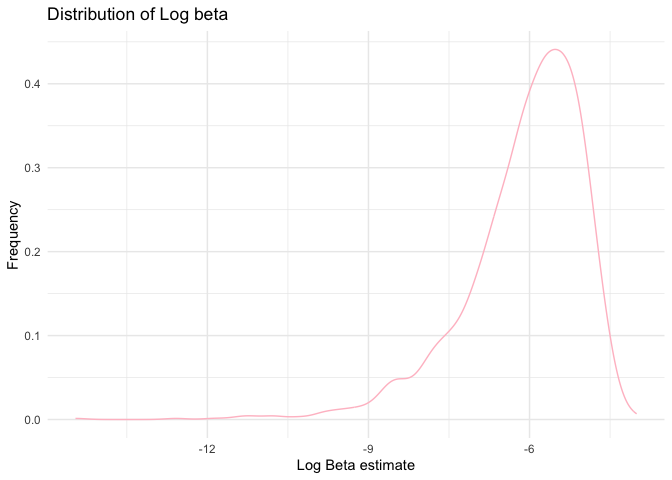
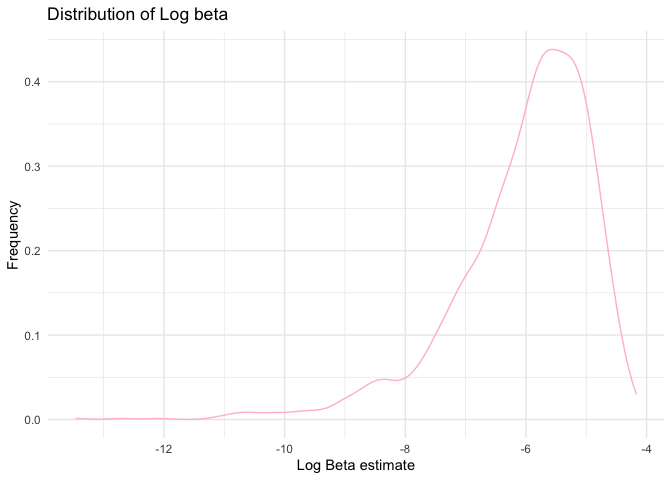
new edit on format

diff --git a/p8105_hw6_yc3577.md b/p8105_hw6_yc3577.md
@@ -362,16 +362,16 @@ bootstrap_results1
     ## # A tibble: 15,000 × 8
     ##    number sample   term        estimate std.error statistic   p.value r_squared
     ##     <int> <list>   <chr>          <dbl>     <dbl>     <dbl>     <dbl>     <dbl>
-    ##  1      1 <tibble> (Intercept)  8.13      0.245       33.2  5.69e-112     0.903
-    ##  2      1 <tibble> tmin         1.02      0.0176      57.8  7.64e-185     0.903
-    ##  3      1 <tibble> prcp        -0.00363   0.00206     -1.76 7.85e-  2     0.903
-    ##  4      2 <tibble> (Intercept)  7.92      0.206       38.4  1.04e-129     0.932
-    ##  5      2 <tibble> tmin         1.03      0.0147      70.2  5.52e-213     0.932
-    ##  6      2 <tibble> prcp        -0.00594   0.00242     -2.46 1.45e-  2     0.932
-    ##  7      3 <tibble> (Intercept)  7.76      0.221       35.2  6.58e-119     0.926
-    ##  8      3 <tibble> tmin         1.02      0.0152      67.1  2.22e-206     0.926
-    ##  9      3 <tibble> prcp         0.00443   0.00193      2.30 2.21e-  2     0.926
-    ## 10      4 <tibble> (Intercept)  7.67      0.208       36.8  2.02e-124     0.932
+    ##  1      1 <tibble> (Intercept)  7.75      0.236       32.8  1.71e-110     0.918
+    ##  2      1 <tibble> tmin         1.04      0.0163      63.4  3.35e-198     0.918
+    ##  3      1 <tibble> prcp        -0.00276   0.00193     -1.43 1.54e-  1     0.918
+    ##  4      2 <tibble> (Intercept)  8.09      0.240       33.7  1.04e-113     0.912
+    ##  5      2 <tibble> tmin         1.01      0.0165      61.1  7.13e-193     0.912
+    ##  6      2 <tibble> prcp         0.00484   0.00224      2.16 3.12e-  2     0.912
+    ##  7      3 <tibble> (Intercept)  7.89      0.213       37.1  2.09e-125     0.926
+    ##  8      3 <tibble> tmin         1.03      0.0153      67.3  1.10e-206     0.926
+    ##  9      3 <tibble> prcp        -0.00306   0.00185     -1.66 9.79e-  2     0.926
+    ## 10      4 <tibble> (Intercept)  7.76      0.213       36.5  2.84e-123     0.933
     ## # ℹ 14,990 more rows
 
 ``` r
@@ -398,18 +398,18 @@ bootstrap_results2
 ```
 
     ## # A tibble: 5,000 × 6
-    ##    number r_squared `(Intercept)`  tmin      prcp log_beta
-    ##     <int>     <dbl>         <dbl> <dbl>     <dbl>    <dbl>
-    ##  1      1     0.903          8.13 1.02  -0.00363    NaN   
-    ##  2      2     0.932          7.92 1.03  -0.00594    NaN   
-    ##  3      3     0.926          7.76 1.02   0.00443     -5.40
-    ##  4      4     0.932          7.67 1.04  -0.00302    NaN   
-    ##  5      5     0.909          8.22 1.00  -0.000225   NaN   
-    ##  6      6     0.927          7.94 1.02  -0.00300    NaN   
-    ##  7      7     0.904          8.24 1.00   0.00630     -5.06
-    ##  8      8     0.918          8.34 0.995 -0.00657    NaN   
-    ##  9      9     0.931          8.09 1.03  -0.00666    NaN   
-    ## 10     10     0.928          8.00 1.04  -0.00615    NaN   
+    ##    number r_squared `(Intercept)`  tmin     prcp log_beta
+    ##     <int>     <dbl>         <dbl> <dbl>    <dbl>    <dbl>
+    ##  1      1     0.918          7.75  1.04 -0.00276   NaN   
+    ##  2      2     0.912          8.09  1.01  0.00484    -5.32
+    ##  3      3     0.926          7.89  1.03 -0.00306   NaN   
+    ##  4      4     0.933          7.76  1.03 -0.00551   NaN   
+    ##  5      5     0.932          8.29  1.03 -0.00856   NaN   
+    ##  6      6     0.912          8.07  1.00  0.00614    -5.09
+    ##  7      7     0.929          7.81  1.03 -0.00228   NaN   
+    ##  8      8     0.911          8.20  1.01 -0.00190   NaN   
+    ##  9      9     0.915          8.18  1.01 -0.00228   NaN   
+    ## 10     10     0.939          7.63  1.04 -0.00610   NaN   
     ## # ℹ 4,990 more rows
 
 Plot the distribution of your estimates, and describe these in words.
@@ -431,7 +431,7 @@ beta_dist =
 beta_dist
 ```
 
-    ## Warning: Removed 3435 rows containing non-finite values (`stat_density()`).
+    ## Warning: Removed 3283 rows containing non-finite values (`stat_density()`).
 
 ![](p8105_hw6_yc3577_files/figure-gfm/unnamed-chunk-4-1.png)<!-- -->
 
@@ -439,8 +439,8 @@ beta_dist
 hist(bootstrap_results2$log_beta, main = "Distribution of Log beta", xlab = "Log beta", col = "pink")
 ```
 
-![](p8105_hw6_yc3577_files/figure-gfm/unnamed-chunk-4-2.png)<!-- --> \#
-The distribution of Log_beta is above with Pink histogram and pink
+![](p8105_hw6_yc3577_files/figure-gfm/unnamed-chunk-4-2.png)<!-- -->
+\### The distribution of Log_beta is above with Pink histogram and pink
 density line. It is unimodel. From two graphs, we can see they are left
 skewed distributed with a long tail on the left. The range is from -14
 to -4 and the center of the mode is around -6. This suggests that there
@@ -470,8 +470,8 @@ rsquared_dist
 hist(bootstrap_results2$r_squared, main = "Distribution of R-squared", xlab = "R-squared", col = "skyblue")
 ```
 
-![](p8105_hw6_yc3577_files/figure-gfm/unnamed-chunk-5-2.png)<!-- --> \#
-The distribution of R_squared is above with blue histogram and blue
+![](p8105_hw6_yc3577_files/figure-gfm/unnamed-chunk-5-2.png)<!-- -->
+\### The distribution of R_squared is above with blue histogram and blue
 density curve. It is unimodel. From two graphs, we can see they are also
 left skewed a little with a small tail on the left. But the distribution
 is closer to normal than the log_beta graph. The range is from 0.86 to
@@ -498,9 +498,9 @@ rsquared_quantile
     ## # A tibble: 1 × 2
     ##   CI_Low CI_High
     ##    <dbl>   <dbl>
-    ## 1  0.883   0.927
+    ## 1  0.882   0.927
 
-# From calculation, the 95% confidence interval for r_squared is (0.8828948, 0.9273118) which means that we have 95 out of 100 times the estimate r_squared will fall between the interval of (0.8828948, 0.9273118).
+### From calculation, the 95% confidence interval for r_squared is (0.8828948, 0.9273118) which means that we have 95 out of 100 times the estimate r_squared will fall between the interval of (0.8828948, 0.9273118).
 
 ``` r
 # Then we can construct the 95% confidence interval for logbeta
@@ -517,16 +517,13 @@ logbeta_quantile
     ## # A tibble: 1 × 2
     ##   CI_Low CI_High
     ##    <dbl>   <dbl>
-    ## 1  -8.78   -4.64
+    ## 1  -8.93   -4.54
 
-# From calculation, the 95% confidence interval for log\_(betatmin \* betaprcp) is (-8.998584, -4.589433) which means that we have 95 out of 100 times the estimate log\_(betatmin \* betaprcp) will fall between the interval of (-8.998584, -4.589433).
+### From calculation, the 95% confidence interval for log\_(betatmin \* betaprcp) is (-8.998584, -4.589433) which means that we have 95 out of 100 times the estimate log\_(betatmin \* betaprcp) will fall between the interval of (-8.998584, -4.589433).
 
-Problem 3
+# Problem 3
 
-In this problem, you will analyze data gathered to understand the
-effects of several variables on a child’s birthweight. Load and clean
-the data for regression analysis (i.e. convert numeric to factor where
-appropriate, check for missing data, etc.).
+## In this problem, you will analyze data gathered to understand the effects of several variables on a child’s birthweight. Load and clean the data for regression analysis (i.e. convert numeric to factor where appropriate, check for missing data, etc.).
 
 ``` r
 birthweight = 
@@ -571,9 +568,7 @@ birthweight
     ## #   pnumlbw <dbl>, pnumsga <dbl>, ppbmi <dbl>, ppwt <dbl>, smoken <dbl>,
     ## #   wtgain <dbl>
 
-Propose a regression model for birthweight. This model may be based on a
-hypothesized structure for the factors that underly birthweight, on a
-data-driven model-building process, or a combination of the two.
+## Propose a regression model for birthweight. This model may be based on a hypothesized structure for the factors that underly birthweight, on a data-driven model-building process, or a combination of the two.
 
 ``` r
 birthweight_model = lm(bwt ~ babysex + bhead + blength + delwt + fincome + frace + gaweeks +
@@ -605,9 +600,7 @@ birthweight_model
     ##            wtgain  
     ##                NA
 
-Describe your modeling process and show a plot of model residuals
-against fitted values – use add_predictions and add_residuals in making
-this plot.
+## Describe your modeling process and show a plot of model residuals against fitted values – use add_predictions and add_residuals in making this plot.
 
 ``` r
 birthweight_df = 
@@ -649,8 +642,7 @@ ggplot(birthweight_df, aes(x = fitted_values, y = residuals)) +
 
 ![](p8105_hw6_yc3577_files/figure-gfm/unnamed-chunk-10-1.png)<!-- -->
 
-Compare your model to two others: One using length at birth and
-gestational age as predictors (main effects only)
+## Compare your model to two others: One using length at birth and gestational age as predictors (main effects only)
 
 ``` r
 # Model with head circumference, length, sex, and all interactions
@@ -666,8 +658,7 @@ model1
     ## (Intercept)      blength      gaweeks  
     ##    -4347.67       128.56        27.05
 
-One using head circumference, length, sex, and all interactions
-(including the three-way interaction) between these
+## One using head circumference, length, sex, and all interactions (including the three-way interaction) between these
 
 ``` r
 # Model with head circumference, length, sex, and all interactions
@@ -690,8 +681,7 @@ model2
     ##       blength:babysexmale  bhead:blength:babysexmale  
     ##                   123.773                     -3.878
 
-Make this comparison in terms of the cross-validated prediction error;
-use crossv_mc and functions in purrr as appropriate.
+## Make this comparison in terms of the cross-validated prediction error; use crossv_mc and functions in purrr as appropriate.
 
 ``` r
 set.seed(12)
@@ -769,6 +759,4 @@ rmse_2_train = rmse(model2, train_df)
 rmse_2_test = rmse(model2, test_df)
 ```
 
-Note that although we expect your model to be reasonable, model building
-itself is not a main idea of the course and we don’t necessarily expect
-your model to be “optimal”.
+## Note that although we expect your model to be reasonable, model building itself is not a main idea of the course and we don’t necessarily expect your model to be “optimal”.
